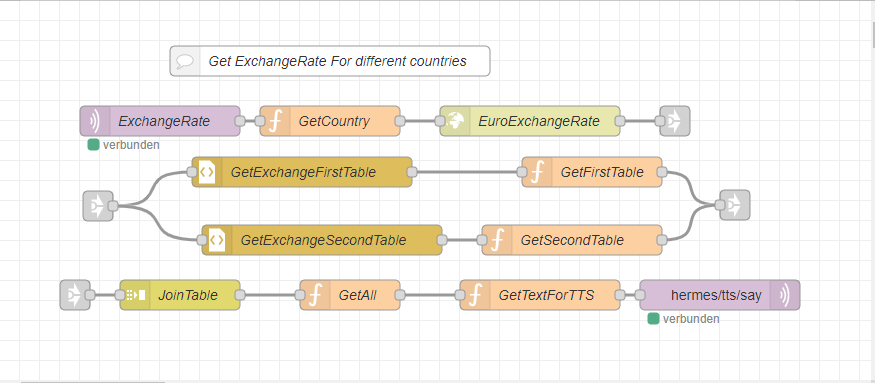
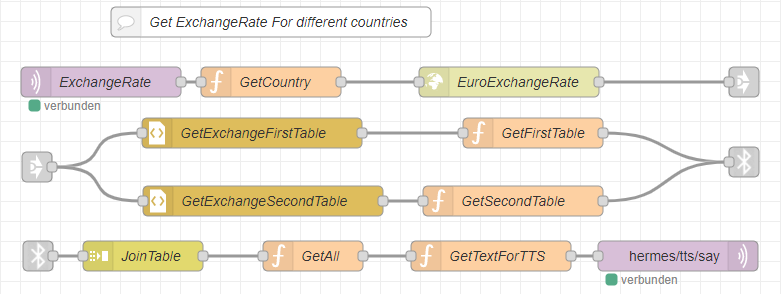
update picture and spelling

diff --git a/docs/pages/knowledge/node-red.md b/docs/pages/knowledge/node-red.md
@@ -15,11 +15,11 @@ parent: Knowledge
 
 # Node-RED
 
-Node-RED is described as flow base programming for the internet of things. Node-Red  is installed by default on your Raspberry Pi but as you will like to use it with the rhasspy , it is  useful to reinstall it and start Node-Red as service on Rhasspy.
+Node-RED is described as flow base programming for the internet of things. Node-Red is installed by default on your Raspberry Pi but as you will like to use it with the rhasspy , it is useful to reinstall it and start Node-Red as service on Rhasspy.
 
 # Installation of node-RED
 
-this command shows how to install Node-Red , Nodejs , Mosquitto as your MQTT Server in a simple line of commands.
+This command shows how to install Node-Red , Nodejs , Mosquitto as your MQTT Server in a simple line of commands.
 
 ```
 sudo apt-get install mosquitto mosquitto-clients -y
